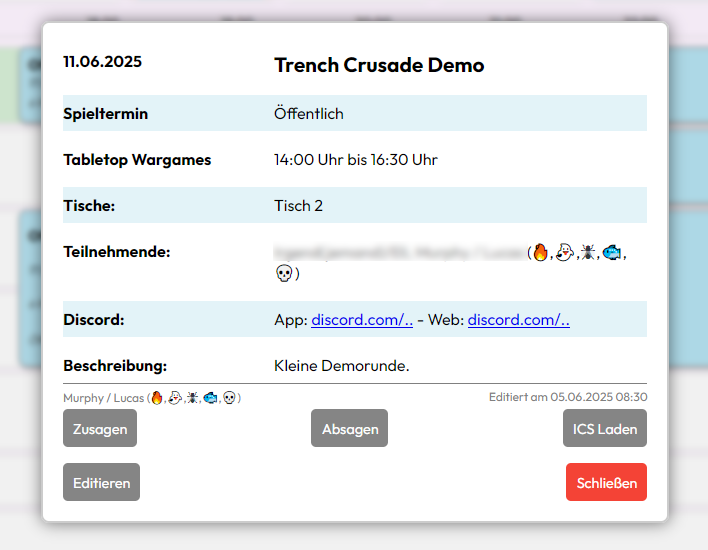
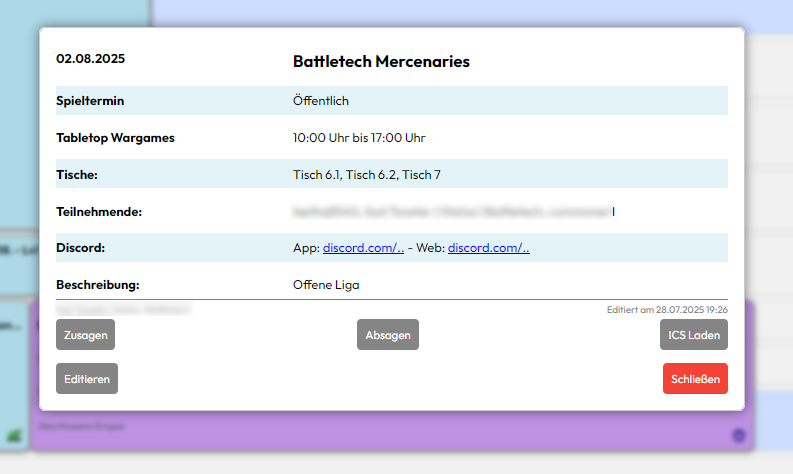
Readme updates with images

diff --git a/README.md b/README.md
@@ -1,29 +1,63 @@
-# Das Buchungssystem des TableTopTreff Hannover e. V.
+![Python](https://img.shields.io/badge/python-3.11-blue)
+![HTMX](https://img.shields.io/badge/HTMX-1.9-blue)
+
+<img src="readme_assets/threadbound_logo.png" width="400"/>
+
 
 ## Wer?
 
 In diesem Repo wird das Buchungssystem des 3TH entwickelt. 
 
-Der [TableTopTreff Hannover](https://tabletoptreff-hannover.de/) ist mit über 200 Mitgliedern einer der größten Vereine Deutschlands für Tabletop-, Brett- und Rollenspiele. Dies war in einem üblichen Kalender nicht mehr vernünftig zu tracken. Dafür wurde dieses Buchungssystem entwickelt, welches an die Kommunikationsplattform des Vereins (Discord) angebunden ist.
+Der [TableTopTreff Hannover](https://tabletoptreff-hannover.de/) ist mit über 200 Mitgliedern einer der größten Vereine Deutschlands für Tabletop-, Brett- und Rollenspiele. 
+
+## Was?
+
+Threadbound ist ein Buchungssystem. Unsere ~1500 Termine pro Jahr waren in einem üblichen Kalender nicht mehr vernünftig zu tracken: Häufige Doppelbuchungen, unhandliche Notizen für die Buchung bestimmter Tische, 20+ verschiedene Kalender für die Spielsysteme... 
+
+Threadbound ist unsere Lösung für digitale Reservierungen. 
+
+Es ist an die Kommunikationsplattform des Vereins (Discord) angebunden und spiegelt unsere Vereinsstruktur aus einem Vorstand und größerem Beirat mit regelmäßigen Stammtischen, Spielterminen und Turnieren sowie öffentlichen und geschlossenen Veranstaltungen auf beliebig vielen Tischen in zwei Räumlichkeiten wieder.
+
+### **Architekturüberblick**
+
+- **Frontend:** Jinja, HTML, HTMX, JS
+- **Backend:** Python (*Flask, SQLAlchemy, APScheduler*)
+- **Auth:** über Discord (*OAuth2*)
+- **Datenbank:** SQLite
+
 
 ## Funktionen
 
-- SSO-Login per Discord
-- Rollenprüfung über Discord
-- Erstellen von Events mit Reservierung einer beliebigen Anzahl Tische in mehreren Räumen
-- Automatische Discord-Posts mit übersichtlichem Embed und Thread für Absprachen zum Event
-- Zusagen und Absagen per App und Discord-Buttons möglich
-- Erinnerungsmeldungen für Ersteller und Absagemeldungen and Personen, die zugesagt haben
-- Prävention von Kollisionen - Möglichkeit Kollisionen automatisch anzufragen und per Ticket in Discord zu klären
-- Einschränkung der Buchungsgröße - Automatisches Anfragen für Erlaubnis beim Vorstand per Ticket in Discord
-- Per Rolle zuweisbare Rechte "Stammtische" (Regelmäßige Events) einzutragen.
-- Einstellbare Vorlaufzeit, wann das Event auf Discord gepostet wird
+- Angeschlossen an Discord:
+  - SSO-Login mit übernahme der Server-Nicknames
+  - Rollenprüfung
+  - Automatische Posts mit übersichtlichem Embed und Thread für Absprachen zum Event
+  - Einstellbare Vorlaufzeit, wann das Event auf Discord gepostet wird
+  - Erinnerungsmeldungen für Ersteller und Absagemeldungen and Personen, die zugesagt haben
+- Funktionen der App:
+  - moderne Kalenderansicht auf allen Geräten
+  - Erstellen von Events mit Reservierung von Tischen in mehreren Räumen
+  - Zusagen und Absagen per App und Discord-Buttons möglich
+  - Unabsichtliche Doppelbuchungen werden geprüft und verhindert
+- Funktionen des Servers:
+  - Ausgeklügeltes System für Vormerkungen (Events, die noch Zustimmungen bedürfen)
+  - Discord-Tickets zur Absprache des Buchenden mit relevanten Personen bei:
+    - Absichtliche Event-Überlagerung z. B. bei Turnieren (*bestehendes Event muss zustimmen*)
+    - Zu große Buchungen z. B. 4+ Tische (*Vorstand muss zustimmen*)
+  - Änderungen im Kalender werden erkannt, Vormerkungen und Tickets entsprechend aufgelöst.
+- Sonstiges:
+  - Per Rolle zuweisbare Rechte "Stammtische" (regelmäßige Events) einzutragen.
+  - ICS Export für Events oder ganze Kalender
+  - Analytics der eingetragenen Events
+  - Leichte Bedienung, große Zahl an Shortcuts, Infozeile, Poweruser-Features
 
-- Leichte Bedienung, Shortcuts, Infozeile, Mobiles Design
+### Beispielbilder
 
 ![alt text](readme_assets/hauptansicht.png)
 
 ![alt text](readme_assets/reservation_popup.png)
+
+![alt text](image.png)
 
 ![alt text](readme_assets/form.png)
 
@@ -33,7 +67,7 @@ Der [TableTopTreff Hannover](https://tabletoptreff-hannover.de/) ist mit über 2
 
 ## Anleitung
 
-[![Watch the video](https://img.youtube.com/vi/-Dex5jn4HPg/hqdefault.jpg)](https://www.youtube.com/watch?v=-Dex5jn4HPg)
+[Demo - Kalender des TableTopTreffs Hannover e. V.](https://3th-test.tabletoptreff.de/calendar/)
 
 
 ## Voraussetzungen
@@ -97,6 +131,8 @@ Folgende Umgebungsvariablen müssen gesetzt werden, um die Anwendung korrekt zu 
 | `BOT_ROLE_ID=`| Rollen-ID des Bots auf dem Discordserver. 
 
 ---
+
+
 
 
 Der aktuelle Branch der Entwicklung ist "htmx"
